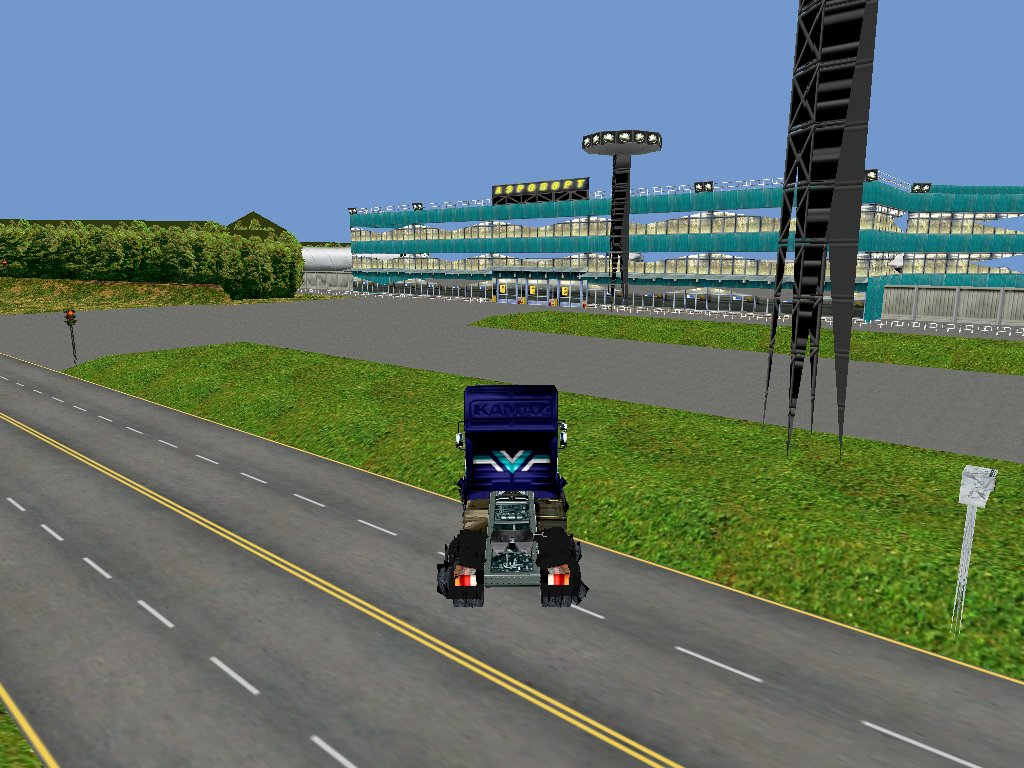
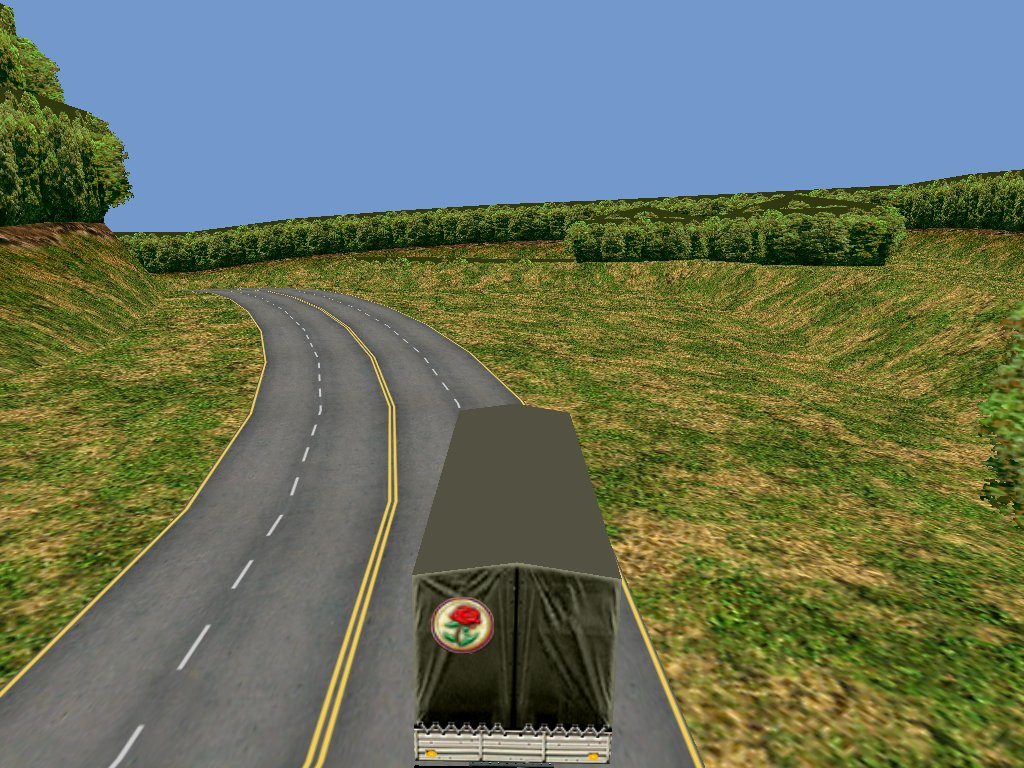
b3d: polygons with format bit 0x80 are triangle strips (no more holes in the ground)

diff --git a/site/index.html b/site/index.html
@@ -64,7 +64,7 @@
   <p>Это работа самого движка openHT2 на данных установленной копии игры: открытый мир, гоночная трасса, грузовик, комбинат и арена.</p>
   <div class="shots">
     <figure><img src="img/traffic.jpg" alt="Машина ИИ едет по своей полосе" loading="lazy"><figcaption>Машина ИИ ведёт себя по перенесённому коду водителя <code>SecondCar</code></figcaption></figure>
-    <figure><img src="img/ported.jpg" alt="КамАЗ у аэропорта на перенесённой физике" loading="lazy"><figcaption>КамАЗ на перенесённой физике оригинала (конструктор и шаг <code>_Car_V</code>)</figcaption></figure>
+    <figure><img src="img/ported.jpg" alt="ЗИЛ едет по дороге у аэропорта" loading="lazy"><figcaption>ЗИЛ на перенесённой физике оригинала (<code>_Car_V</code>), за рулём — перенесённый водитель ИИ; полосы треугольников (бит 0x80 формата) рисуются как в оригинале</figcaption></figure>
     <figure><img src="img/airport.jpg" alt="Старт в аэропорту: ЗИЛ с тентом" loading="lazy"><figcaption>Старт из <code>GAME.CNF</code>: аэропорт, ЗИЛ</figcaption></figure>
     <figure><img src="img/track.jpg" alt="Грузовик едет по трассе" loading="lazy"><figcaption>Езда по трассе, физика по числам <code>vehicle.tech</code></figcaption></figure>
     <figure><img src="img/world.jpg" alt="Вид сверху на открытый мир" loading="lazy"><figcaption>Открытый мир из 39 районов, вид сверху</figcaption></figure>

diff --git a/crates/ht2-formats/src/b3d.rs b/crates/ht2-formats/src/b3d.rs
@@ -31,6 +31,9 @@ pub struct PolyVert {
 
 #[derive(Debug, Clone)]
 pub struct Poly {
+    /// The format word of the polygon (bit 1 texture coordinates, 0x10/0x20 normals, 0x80 a
+    /// triangle strip rather than a fan).
+    pub format: u32,
     pub material: u32,
     pub verts: Vec<PolyVert>,
 }
@@ -182,7 +185,7 @@ impl R<'_> {
                     }
                     verts.push(PolyVert { index, uv: first });
                 }
-                polys.push(Poly { material, verts });
+                polys.push(Poly { format: raw, material, verts });
             }
         }
         Ok((polys, spr))
@@ -648,8 +651,16 @@ fn collect(n: &Node, xf: &Xf, pool: &[Vertex], ctx: &Ctx, emit: bool, depth: u32
                     }
                 };
                 let mk = |i: usize| Vertex { pos: xf.apply(vs[i].0.pos), uv: vs[i].1.unwrap_or(vs[i].0.uv) };
-                for i in 1..vs.len().saturating_sub(1) {
-                    out[slot].verts.extend([mk(0), mk(i), mk(i + 1)]);
+                if p.format & 0x80 != 0 {
+                    // a triangle strip
+                    for i in 0..vs.len().saturating_sub(2) {
+                        let (a, b) = if i % 2 == 0 { (i, i + 1) } else { (i + 1, i) };
+                        out[slot].verts.extend([mk(a), mk(b), mk(i + 2)]);
+                    }
+                } else {
+                    for i in 1..vs.len().saturating_sub(1) {
+                        out[slot].verts.extend([mk(0), mk(i), mk(i + 1)]);
+                    }
                 }
             }
         }
